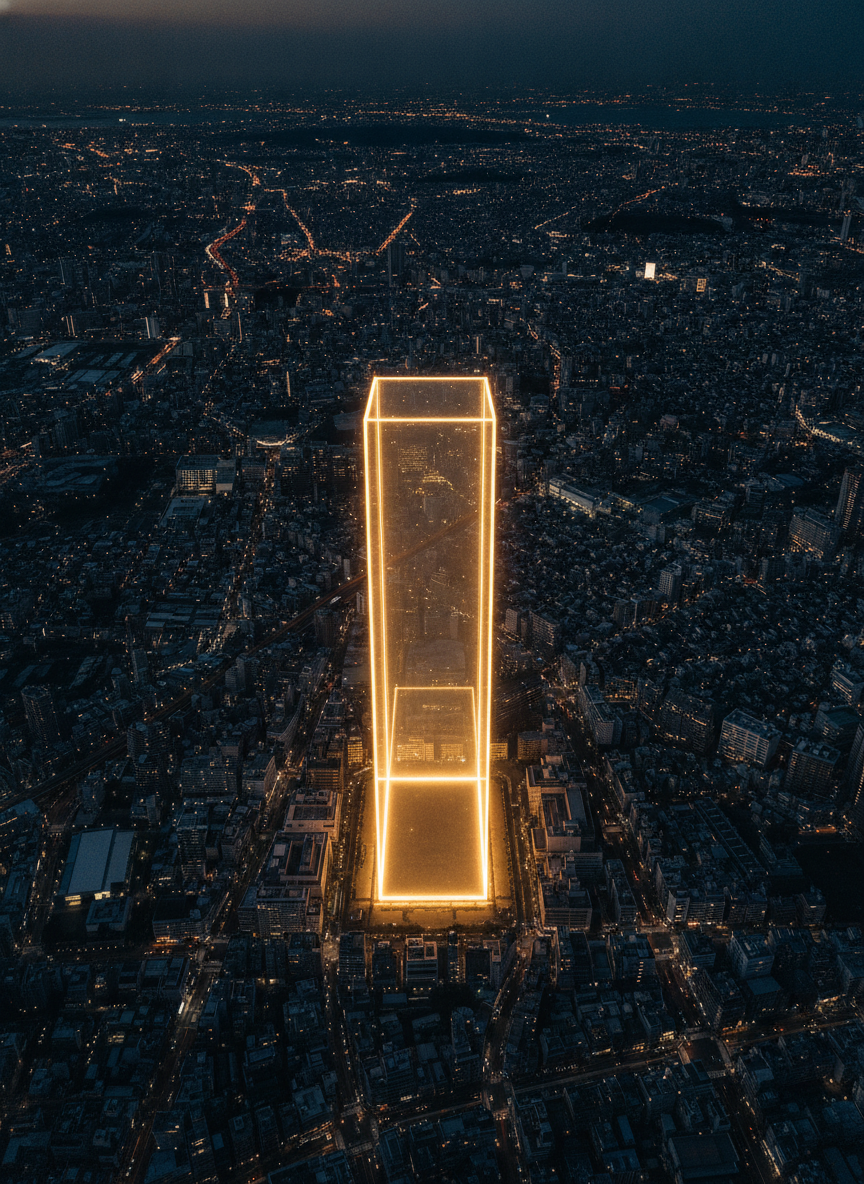
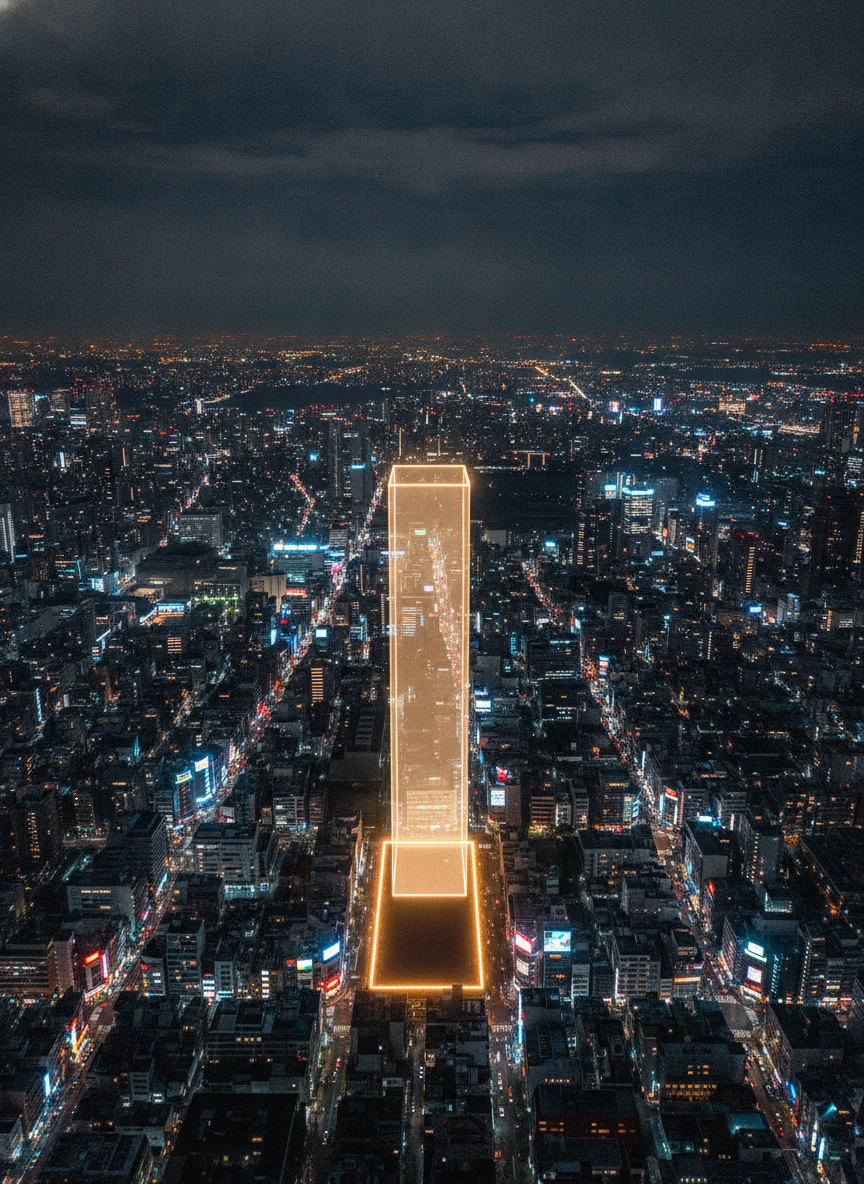
画像生成: toshin軸を8カットの個別プロンプトで多様化
各軸ごとに時間帯・天候・カメラ角度・季節を変えた8通りのScene配列を導入し、
同一軸内でも別カットになるよう generate-images.ts を改修（AXES絞り込みも追加）。
長方形ライトプリズム・街並み鳥瞰・文字/人物なしのブランド要素は全カット維持。
toshin軸8枚を新プロンプトで再生成。

Claude-Session: https://claude.ai/code/session_01EiH3mEuPjNuDzpDfGJKtPP

diff --git a/scripts/generate-images.ts b/scripts/generate-images.ts
@@ -63,24 +63,83 @@ const BEAM_BASE =
   "Wide open sky at the top for negative space. Cinematic real-estate hero visual. " +
   "No text, no logos, no people. Vertical 3:4 composition.";
 
-const AXIS_PROMPTS: Record<ImageAxis, string> = {
-  toshin:
-    `${BEAM_BASE} Scene: a vast glittering Tokyo night skyline at twilight; the rectangular light volume glows radiant golden-amber; deep blue and gold tones; prestigious mood.`,
-  shizen:
-    `${BEAM_BASE} Scene: a leafy green Tokyo residential district by day with tree-lined avenues and parks; the rectangular light volume glows soft pale-green white; fresh green tones; calm natural mood.`,
-  bunka:
-    `${BEAM_BASE} Scene: a historic Japanese townscape with temple roofs and old streets in the evening; the rectangular light volume glows warm amber; deep crimson and amber tones; cultural nostalgic mood.`,
-  kurashi:
-    `${BEAM_BASE} Scene: a friendly low-rise Tokyo neighborhood with a shopping street at golden hour; the rectangular light volume glows warm white; cozy warm tones; everyday-life mood.`,
-  keikan:
-    `${BEAM_BASE} Scene: a Tokyo cityscape with a wide horizon and distant hills by day; the rectangular light volume glows cool light-blue white; teal and light-blue tones; scenic airy mood.`,
-  kaiho:
-    `${BEAM_BASE} Scene: a bright open Tokyo bay waterfront with canals and towers by day under a wide sky; the rectangular light volume glows bright white-blue; cool light-blue tones; spacious liberating mood.`,
+// 各軸あたり複数カットの Scene 文（時間帯・天候・カメラ・季節を変えて多様化）。
+// i 番目の画像には AXIS_SCENES[axis][i % 長さ] を使う。ライトプリズムは全カット維持。
+const AXIS_SCENES: Record<ImageAxis, string[]> = {
+  toshin: [
+    "a vast Tokyo night skyline, a sea of glittering lights to the horizon, deep blue and gold, top-down aerial; rectangular prism glows radiant golden-amber; prestigious mood.",
+    "a metropolis at magic-hour twilight, purple-orange sky, oblique 45-degree bird's-eye; rectangular prism glows radiant gold; prestigious mood.",
+    "a dense high-rise core in blue hour, cool blue with warm window lights, wide distant view; rectangular prism glows amber-gold; prestigious mood.",
+    "a rain-wet Tokyo night, neon reflections on avenues, cinematic faint mist; rectangular prism glows amber; prestigious mood.",
+    "a clear midday metropolis, crisp shadows, silver-blue tones, very high top-down; rectangular prism glows pale gold; prestigious mood.",
+    "the city before dawn, low fog drifting between towers, first warm light, elevated drone angle; rectangular prism glows soft gold; prestigious mood.",
+    "a crisp winter night, distant illumination bokeh, deep navy sky; rectangular prism glows radiant gold; prestigious mood.",
+    "a dusk panorama, layered tower silhouettes to the horizon, gold-amber sky; rectangular prism glows warm gold; prestigious mood.",
+  ],
+  shizen: [
+    "a leafy green residential district at midday, tree-lined avenues and parks, top-down; rectangular prism glows soft pale-green white; calm natural mood.",
+    "a fresh-green early-summer town, sunlight through zelkova canopies, oblique 45-degree view; rectangular prism glows white-green; calm mood.",
+    "a cherry-blossom spring district, pink-tinged treetops over low houses, airy pastel tones; rectangular prism glows gentle pale green; calm mood.",
+    "a morning-mist neighborhood, dew and low fog over gardens; rectangular prism glows cool green-white; calm mood.",
+    "autumn foliage streets, warm amber-green leaves, golden-hour side light; rectangular prism glows soft green; calm mood.",
+    "a riverside greenway with rows of trees and reflective water at midday; rectangular prism glows light-green; calm mood.",
+    "a quiet garden district after rain, wet fresh leaves, overcast soft light; rectangular prism glows pale green; calm mood.",
+    "a wide green hilly suburb at dusk, layered treetops to the horizon; rectangular prism glows mild green-gold; calm mood.",
+  ],
+  bunka: [
+    "a historic townscape with temple roofs and old streets at evening, top-down; rectangular prism glows warm amber; crimson-amber tones; nostalgic mood.",
+    "a lantern-lit old quarter at dusk, warm paper-lantern glow across alleys, oblique 45-degree view; rectangular prism glows amber; nostalgic mood.",
+    "a shrine precinct among trees at twilight, torii and rooftops, deep vermilion and amber; rectangular prism glows soft amber; nostalgic mood.",
+    "a snow-dusted old townscape, tiled roofs under grey sky, muted warm tones; rectangular prism glows warm amber; quiet nostalgic mood.",
+    "a festival evening, rows of red lanterns and stalls seen from above, warm golden glow; rectangular prism glows amber; nostalgic mood.",
+    "narrow traditional streets at blue hour, tiled roofs and lit windows; rectangular prism glows warm amber; nostalgic mood.",
+    "an autumn temple district, maple reds over old roofs, low warm sun; rectangular prism glows amber; nostalgic mood.",
+    "a riverside old town at magic hour, wooden houses and bridges, amber-crimson glow; rectangular prism glows warm amber; nostalgic mood.",
+  ],
+  kurashi: [
+    "a friendly low-rise neighborhood with a shopping street at golden hour, top-down; rectangular prism glows cozy warm white; everyday-life mood.",
+    "a lively local shotengai from above at dusk, awnings and lit shopfronts; rectangular prism glows warm white; everyday-life mood.",
+    "quiet residential blocks at early evening, glowing house windows, oblique 45-degree view; rectangular prism glows cozy amber; everyday-life mood.",
+    "a weekend town under a clear midday sky, parks and small streets; rectangular prism glows bright warm-white; everyday-life mood.",
+    "a rainy-day neighborhood, wet streets and gentle reflections, soft grey light; rectangular prism glows warm white; everyday-life mood.",
+    "a morning town with light haze, low sun down the streets; rectangular prism glows fresh warm white; everyday-life mood.",
+    "autumn suburban streets, roadside trees turning, golden-hour warmth; rectangular prism glows cozy amber; everyday-life mood.",
+    "a snowy quiet residential area at dusk, warm lit windows; rectangular prism glows soft amber-white; everyday-life mood.",
+  ],
+  keikan: [
+    "a cityscape with a wide horizon and distant hills at midday, top-down; rectangular prism glows cool light-blue white; teal tones; scenic airy mood.",
+    "a skyline against a distant Mt. Fuji silhouette at dusk, layered ridgelines, oblique 45-degree view; rectangular prism glows cool blue; scenic mood.",
+    "a hilltop view over rooftops to a bright horizon on a clear day; rectangular prism glows teal-blue; scenic mood.",
+    "a blue-hour panorama, the city fading into distant haze; rectangular prism glows cool luminous blue; scenic mood.",
+    "a clear crisp afternoon, a sharp distant skyline, silver-teal tones; rectangular prism glows light-blue; scenic mood.",
+    "a sea-of-clouds dawn over a low city, pastel sky; rectangular prism glows cool light-blue; scenic mood.",
+    "a sunset over a broad townscape, gradient orange-to-teal sky; rectangular prism glows cool blue accent; scenic mood.",
+    "a winter clear-air panorama, distant snow-capped ridges; rectangular prism glows bright blue-white; scenic mood.",
+  ],
+  kaiho: [
+    "a bright bay waterfront with canals and towers under a wide sky at midday, top-down; rectangular prism glows bright white-blue; spacious liberating mood.",
+    "an open harbor district at dusk, water reflecting the sky, spacious oblique 45-degree view; rectangular prism glows cool white-blue; spacious mood.",
+    "a wide riverside with bridges under a vast clear sky, airy light-blue tones; rectangular prism glows bright white-blue; spacious mood.",
+    "a blue-hour waterfront, calm water and distant lights; rectangular prism glows luminous white-blue; spacious mood.",
+    "a sunny promenade and marina from above, sparkling water; rectangular prism glows cool white-blue; spacious mood.",
+    "a dawn over the bay, soft pastel sky and still water; rectangular prism glows gentle white-blue; spacious mood.",
+    "a breezy summer waterfront, scattered clouds over a deep-blue sea; rectangular prism glows bright white-blue; spacious mood.",
+    "a sunset bay panorama, wide horizon, warm-to-cool sky gradient; rectangular prism glows cool white-blue accent; spacious mood.",
+  ],
 };
 
+function promptFor(axis: ImageAxis, i: number): string {
+  const scenes = AXIS_SCENES[axis];
+  return `${BEAM_BASE} Scene: ${scenes[i % scenes.length]}`;
+}
+
 const MODEL = process.env.GEMINI_MODEL ?? "gemini-2.5-flash-image";
-const PER_AXIS = Number(process.env.PER_AXIS ?? 8); // 7軸 × 8 = 56枚
+const PER_AXIS = Number(process.env.PER_AXIS ?? 8); // 6軸 × 8 = 48枚
 const LIMIT = process.env.LIMIT ? Number(process.env.LIMIT) : Infinity; // 生成上限（サンプル用）
+// AXES=toshin,shizen のように生成対象軸を絞れる（未指定なら全 IMAGE_AXES）
+const AXES_FILTER = process.env.AXES
+  ? new Set(process.env.AXES.split(",").map((s) => s.trim()))
+  : null;
 const OUT_DIR = join(process.cwd(), "public", "poem-images");
 const MANIFEST = join(process.cwd(), "src", "data", "images.ts");
 const API_KEY = process.env.GEMINI_API_KEY;
@@ -189,11 +248,12 @@ async function main() {
   let made = 0;
 
   outer: for (const axis of IMAGE_AXES) {
+    if (AXES_FILTER && !AXES_FILTER.has(axis)) continue;
     for (let i = 0; i < PER_AXIS; i++) {
       if (made >= LIMIT) break outer;
       const file = `${axis}-${String(i).padStart(2, "0")}.png`;
       try {
-        const buf = await callGemini(AXIS_PROMPTS[axis]);
+        const buf = await callGemini(promptFor(axis, i));
         await writeFile(join(OUT_DIR, file), buf);
         manifest.push({ file, axes: [axis] });
         made++;
